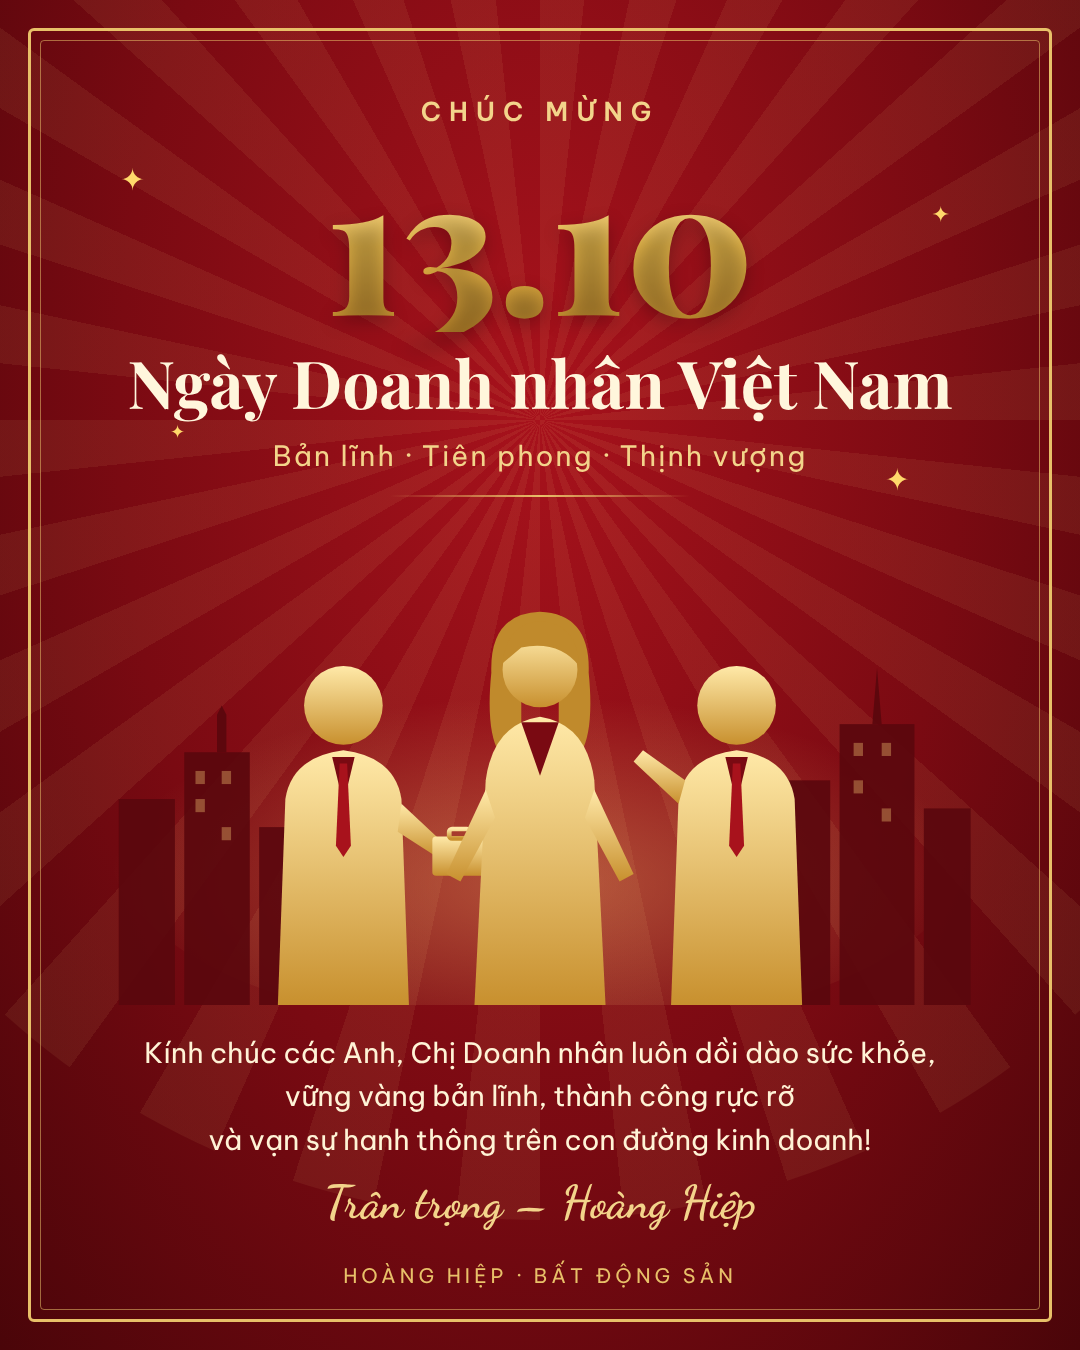
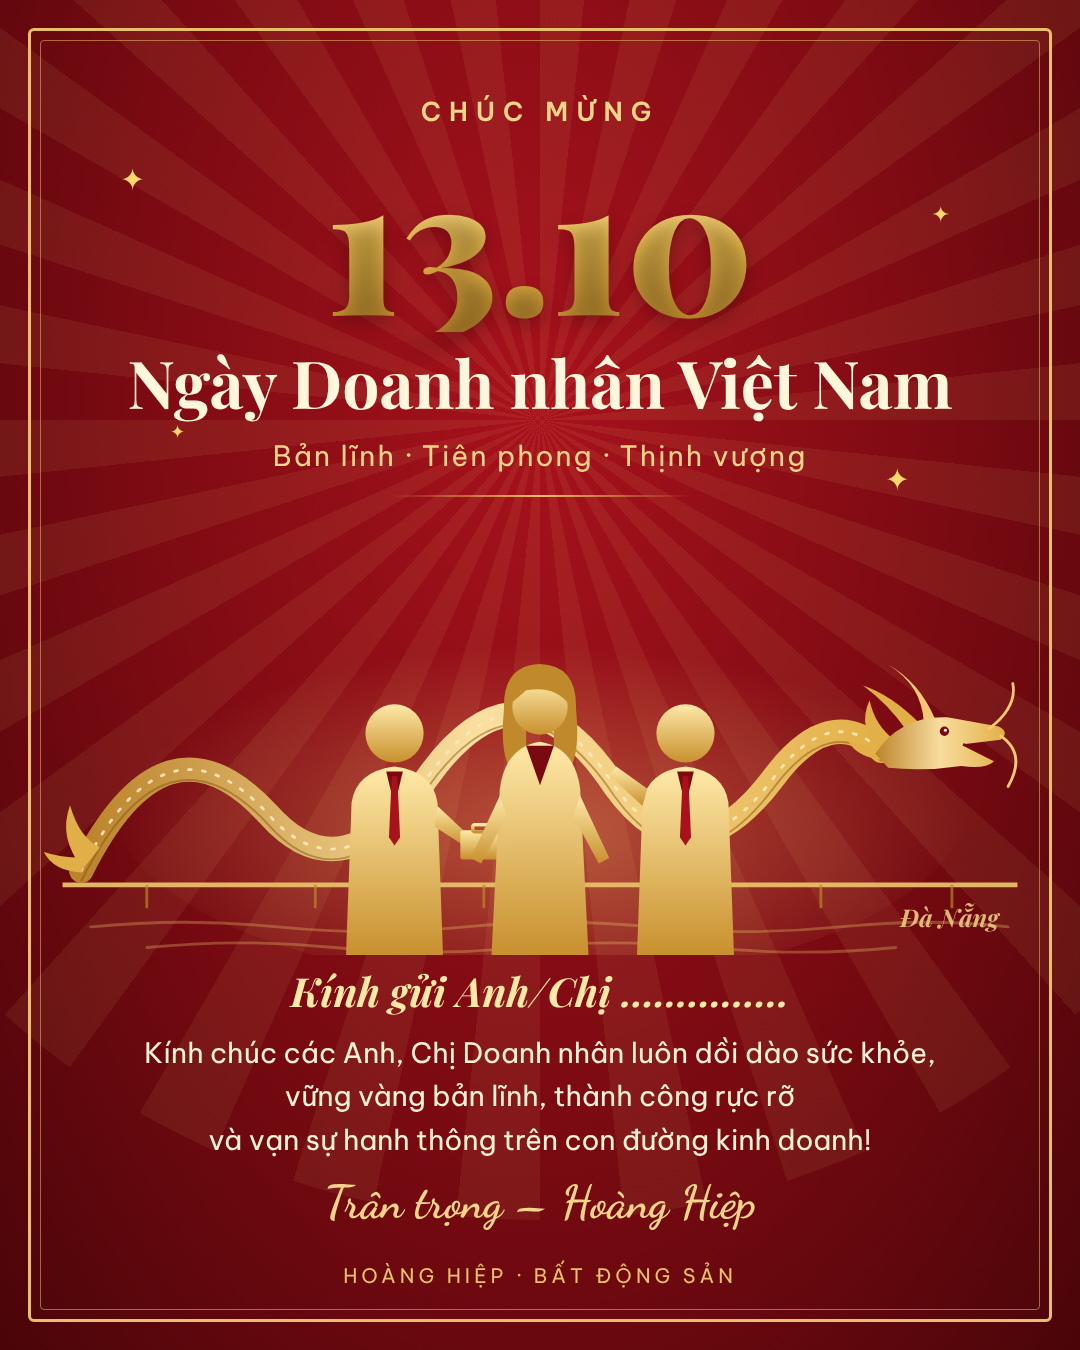
Thiệp 13/10: thêm Cầu Rồng Đà Nẵng và dòng Kính gửi tên anh chị
Claude-Session: https://claude.ai/code/session_01Noi56VZ885EaUZ236ZNbAP

Changed region(s): [[0.0306, 0.4356, 0.9472, 0.7467]]

diff --git a/thiep/thiep-13-10.html b/thiep/thiep-13-10.html
@@ -13,8 +13,9 @@ body{width:1080px;height:1350px;font-family:'Be Vietnam Pro','DejaVu Sans',sans-
 .title{font-family:'Playfair Display',serif;font-size:66px;font-weight:700;margin-top:6px;color:#fff6dc}
 .sub{font-size:28px;color:#f3d48b;margin-top:12px;letter-spacing:2px}
 .line{width:300px;height:2px;margin:22px auto 0;background:linear-gradient(90deg,transparent,#e8c069,transparent)}
-svg.people{position:absolute;left:0;bottom:345px;width:1080px;height:440px}
+svg.people{position:absolute;left:0;bottom:395px;width:1080px;height:440px}
 .msg{position:absolute;bottom:120px;width:100%;text-align:center;padding:0 110px}
+.msg .to{font-family:'Playfair Display',serif;font-style:italic;font-size:40px;color:#ffe9a8;margin-bottom:14px}
 .msg p{font-size:28px;line-height:1.55;color:#fff3d6}
 .msg .sign{font-family:'Dancing Script',cursive;font-size:46px;color:#f3d48b;margin-top:14px}
 .foot{position:absolute;bottom:62px;width:100%;text-align:center;font-size:20px;letter-spacing:4px;color:#e8c069}
@@ -33,19 +34,39 @@ svg.people{position:absolute;left:0;bottom:345px;width:1080px;height:440px}
 <svg class="people" viewBox="0 0 1080 470">
  <defs>
   <linearGradient id="g" x1="0" y1="0" x2="0" y2="1"><stop offset="0" stop-color="#ffe9a8"/><stop offset="1" stop-color="#c8902e"/></linearGradient>
+  <linearGradient id="dg" x1="0" y1="0" x2="1" y2="0"><stop offset="0" stop-color="#c08a2c"/><stop offset=".5" stop-color="#ffe9a8"/><stop offset="1" stop-color="#e8b84a"/></linearGradient>
   <radialGradient id="glow" cx=".5" cy=".6" r=".5"><stop offset="0" stop-color="#ffd27a" stop-opacity=".35"/><stop offset="1" stop-color="#ffd27a" stop-opacity="0"/></radialGradient>
  </defs>
  <ellipse cx="540" cy="300" rx="460" ry="200" fill="url(#glow)"/>
- <!-- city skyline -->
- <g fill="#5a070d" opacity=".9">
-  <rect x="90" y="250" width="60" height="220"/><rect x="160" y="200" width="70" height="270"/><rect x="240" y="280" width="50" height="190"/>
-  <rect x="790" y="230" width="60" height="240"/><rect x="860" y="170" width="80" height="300"/><rect x="950" y="260" width="50" height="210"/>
-  <polygon points="195,200 195,160 200,150 205,160 205,200"/><polygon points="895,170 900,110 905,170"/>
+ <!-- Da Nang: Cau Rong tren song Han -->
+ <g opacity=".95">
+  <path d="M30 395 L1050 395" stroke="#e8c069" stroke-width="5"/>
+  <g stroke="#c08a2c" stroke-width="3" opacity=".7">
+   <line x1="120" y1="395" x2="120" y2="420"/><line x1="300" y1="395" x2="300" y2="420"/><line x1="480" y1="395" x2="480" y2="420"/>
+   <line x1="660" y1="395" x2="660" y2="420"/><line x1="840" y1="395" x2="840" y2="420"/><line x1="980" y1="395" x2="980" y2="420"/>
+  </g>
+  <path d="M50 380 Q140 200 250 320 Q330 410 420 280 Q520 140 620 290 Q700 400 790 280 Q850 200 905 252" fill="none" stroke="url(#dg)" stroke-width="26" stroke-linecap="round"/>
+  <path d="M50 380 Q140 200 250 320 Q330 410 420 280 Q520 140 620 290 Q700 400 790 280 Q850 200 905 252" fill="none" stroke="#fff3c4" stroke-width="3" stroke-dasharray="3 12" stroke-linecap="round" opacity=".9"/>
+  <path d="M50 380 Q140 200 250 320 Q330 410 420 280 Q520 140 620 290 Q700 400 790 280 Q850 200 905 252" fill="none" stroke="#8a5a14" stroke-width="2" transform="translate(0 11)" opacity=".5"/>
+  <!-- dau rong -->
+  <path d="M905 255 Q878 228 892 198 Q898 225 918 240 Z M915 262 Q880 262 868 240 Q892 250 920 250 Z" fill="#e8b84a"/>
+  <path d="M945 222 Q915 192 885 182 Q912 202 930 228 Z" fill="#e8b84a"/>
+  <path d="M962 218 Q945 178 912 160 Q948 182 950 222 Z" fill="#ffd27a"/>
+  <path d="M898 255 Q925 214 975 216 L1030 226 Q1042 232 1032 240 L992 245 L1026 262 Q1018 272 990 268 Q950 274 912 270 Z" fill="url(#dg)"/>
+  <path d="M992 245 L1026 262" stroke="#7a0a12" stroke-width="3"/>
+  <circle cx="972" cy="231" r="5" fill="#7a0a12"/><circle cx="973" cy="230" r="1.6" fill="#fff"/>
+  <path d="M1032 236 Q1060 255 1040 290" stroke="#ffd27a" stroke-width="3" fill="none" stroke-linecap="round"/>
+  <path d="M1020 228 Q1050 205 1045 180" stroke="#ffd27a" stroke-width="3" fill="none" stroke-linecap="round"/>
+  <!-- duoi rong -->
+  <path d="M52 378 Q25 345 38 310 Q48 345 70 355 Z M50 382 Q20 380 10 360 Q35 368 55 365 Z" fill="#e8b84a"/>
+  <!-- song Han -->
+  <g stroke="#e8c069" stroke-linecap="round" opacity=".35" fill="none" stroke-width="3">
+   <path d="M60 440 Q160 430 260 440 T460 440 T660 440 T860 440 T1040 440"/>
+   <path d="M120 462 Q220 452 320 462 T520 462 T720 462 T920 462"/>
+  </g>
+  <text x="1030" y="440" text-anchor="end" font-family="'Playfair Display',serif" font-style="italic" font-size="26" fill="#f3d48b" opacity=".9">Đà Nẵng</text>
  </g>
- <g fill="#ffd27a" opacity=".35">
-  <rect x="172" y="220" width="10" height="14"/><rect x="200" y="220" width="10" height="14"/><rect x="172" y="250" width="10" height="14"/><rect x="200" y="280" width="10" height="14"/>
-  <rect x="875" y="190" width="10" height="14"/><rect x="905" y="190" width="10" height="14"/><rect x="875" y="230" width="10" height="14"/><rect x="905" y="260" width="10" height="14"/>
- </g>
+ <g transform="translate(540 470) scale(.74) translate(-540 -470)">
  <g fill="url(#g)">
   <!-- Anh 1 (trái) -->
   <circle cx="330" cy="150" r="42"/>
@@ -69,10 +90,16 @@ svg.people{position:absolute;left:0;bottom:345px;width:1080px;height:440px}
  <g fill="#a8121c">
   <path d="M326 212 L334 212 L338 300 L330 312 L322 300 Z"/><path d="M746 212 L754 212 L758 300 L750 312 L742 300 Z"/>
  </g>
+ </g>
 </svg>
 <div class="msg">
+ <div class="to" id="to">Kính gửi Anh/Chị ……………</div>
  <p>Kính chúc các Anh, Chị Doanh nhân luôn dồi dào sức khỏe,<br>vững vàng bản lĩnh, thành công rực rỡ<br>và vạn sự hanh thông trên con đường kinh doanh!</p>
  <div class="sign">Trân trọng – Hoàng Hiệp</div>
 </div>
 <div class="foot">HOÀNG HIỆP · BẤT ĐỘNG SẢN</div>
-</div></body></html>
+</div>
+<script>
+const n=new URLSearchParams(location.search).get('ten');
+if(n) document.getElementById('to').textContent='Kính gửi '+n;
+</script></body></html>
